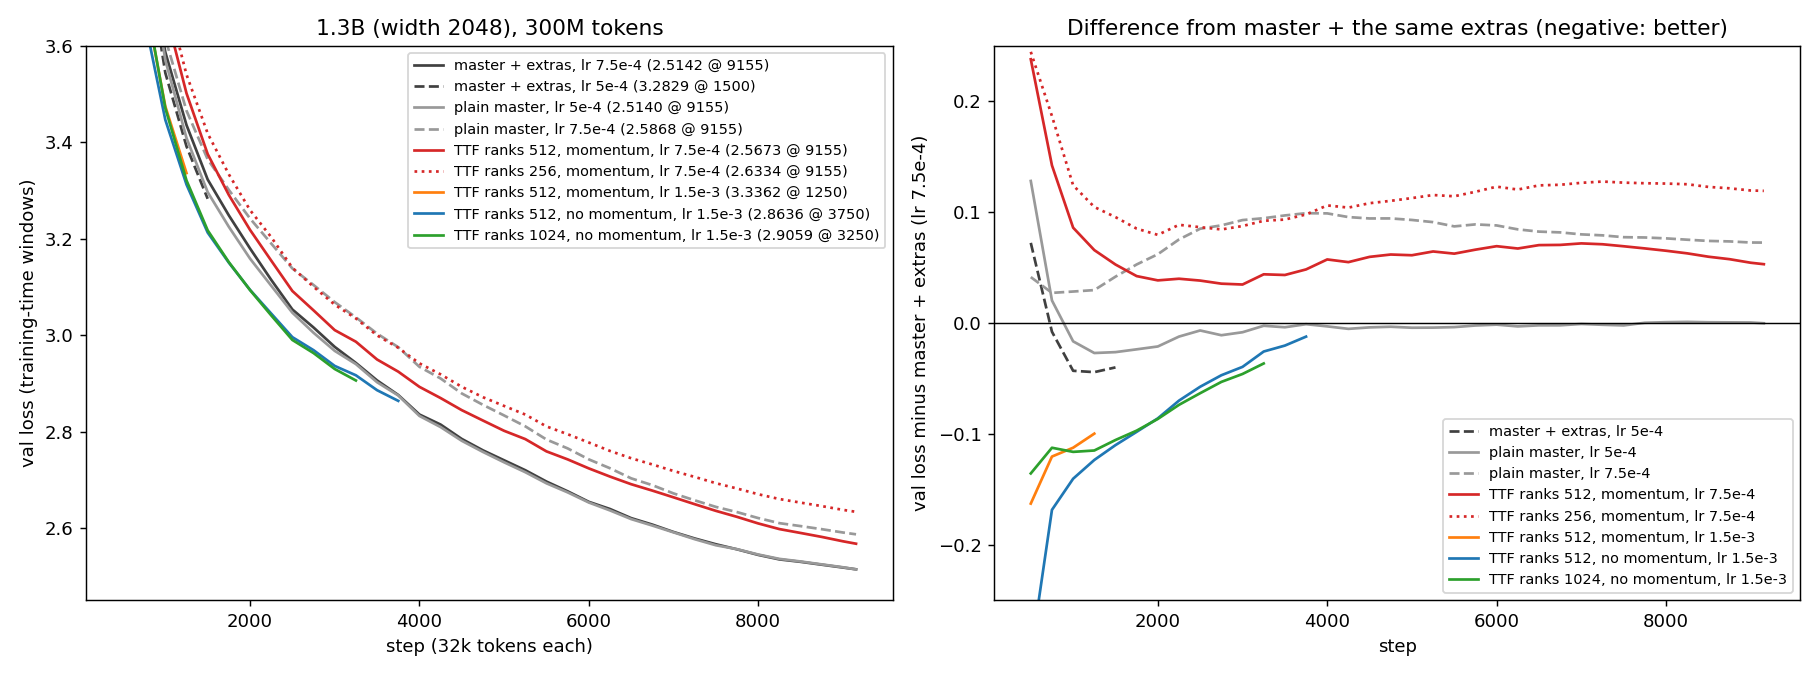
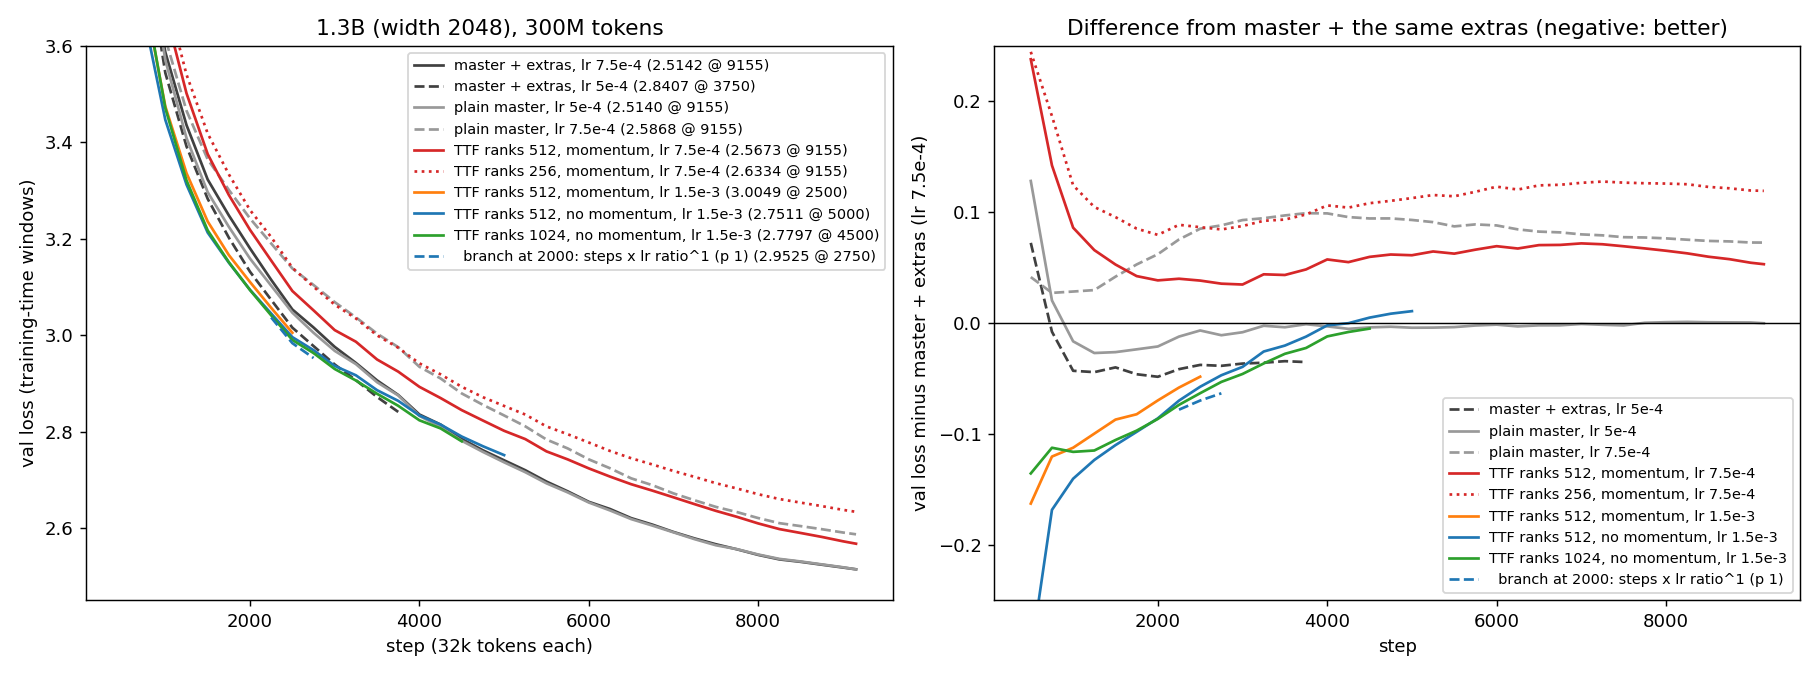
01:55: 1.3B no momentum crosses master at ~4200; branch p 1 ahead of its parent; p 1.5 / 2 arms

diff --git a/scripts/plots/plot_1b.py b/scripts/plots/plot_1b.py
@@ -23,6 +23,9 @@ RUNS = [  # name, label, colour, style
     ("x1b_ts512_lr15", "TTF ranks 512, momentum, lr 1.5e-3", "C1", "-"),
     ("x1b_nomom512_lr15", "TTF ranks 512, no momentum, lr 1.5e-3", "C0", "-"),
     ("x1b_nomom1024_lr15", "TTF ranks 1024, no momentum, lr 1.5e-3", "C2", "-"),
+    ("x1b_nm512_b2k_p1", "  branch at 2000: steps x lr ratio^1 (p 1)", "C0", "--"),
+    ("x1b_nm512_b2k_leakc", "  branch at 2000: constant leak", "C9", "--"),
+    ("x1b_nm512_b2k_th1020", "  branch at 2000: threshold 10 -> 20", "C8", "--"),
 ]
 ref = V["x1b_mx_extras_lr75"]
 fig, ax = plt.subplots(1, 2, figsize=(14, 5.2))
